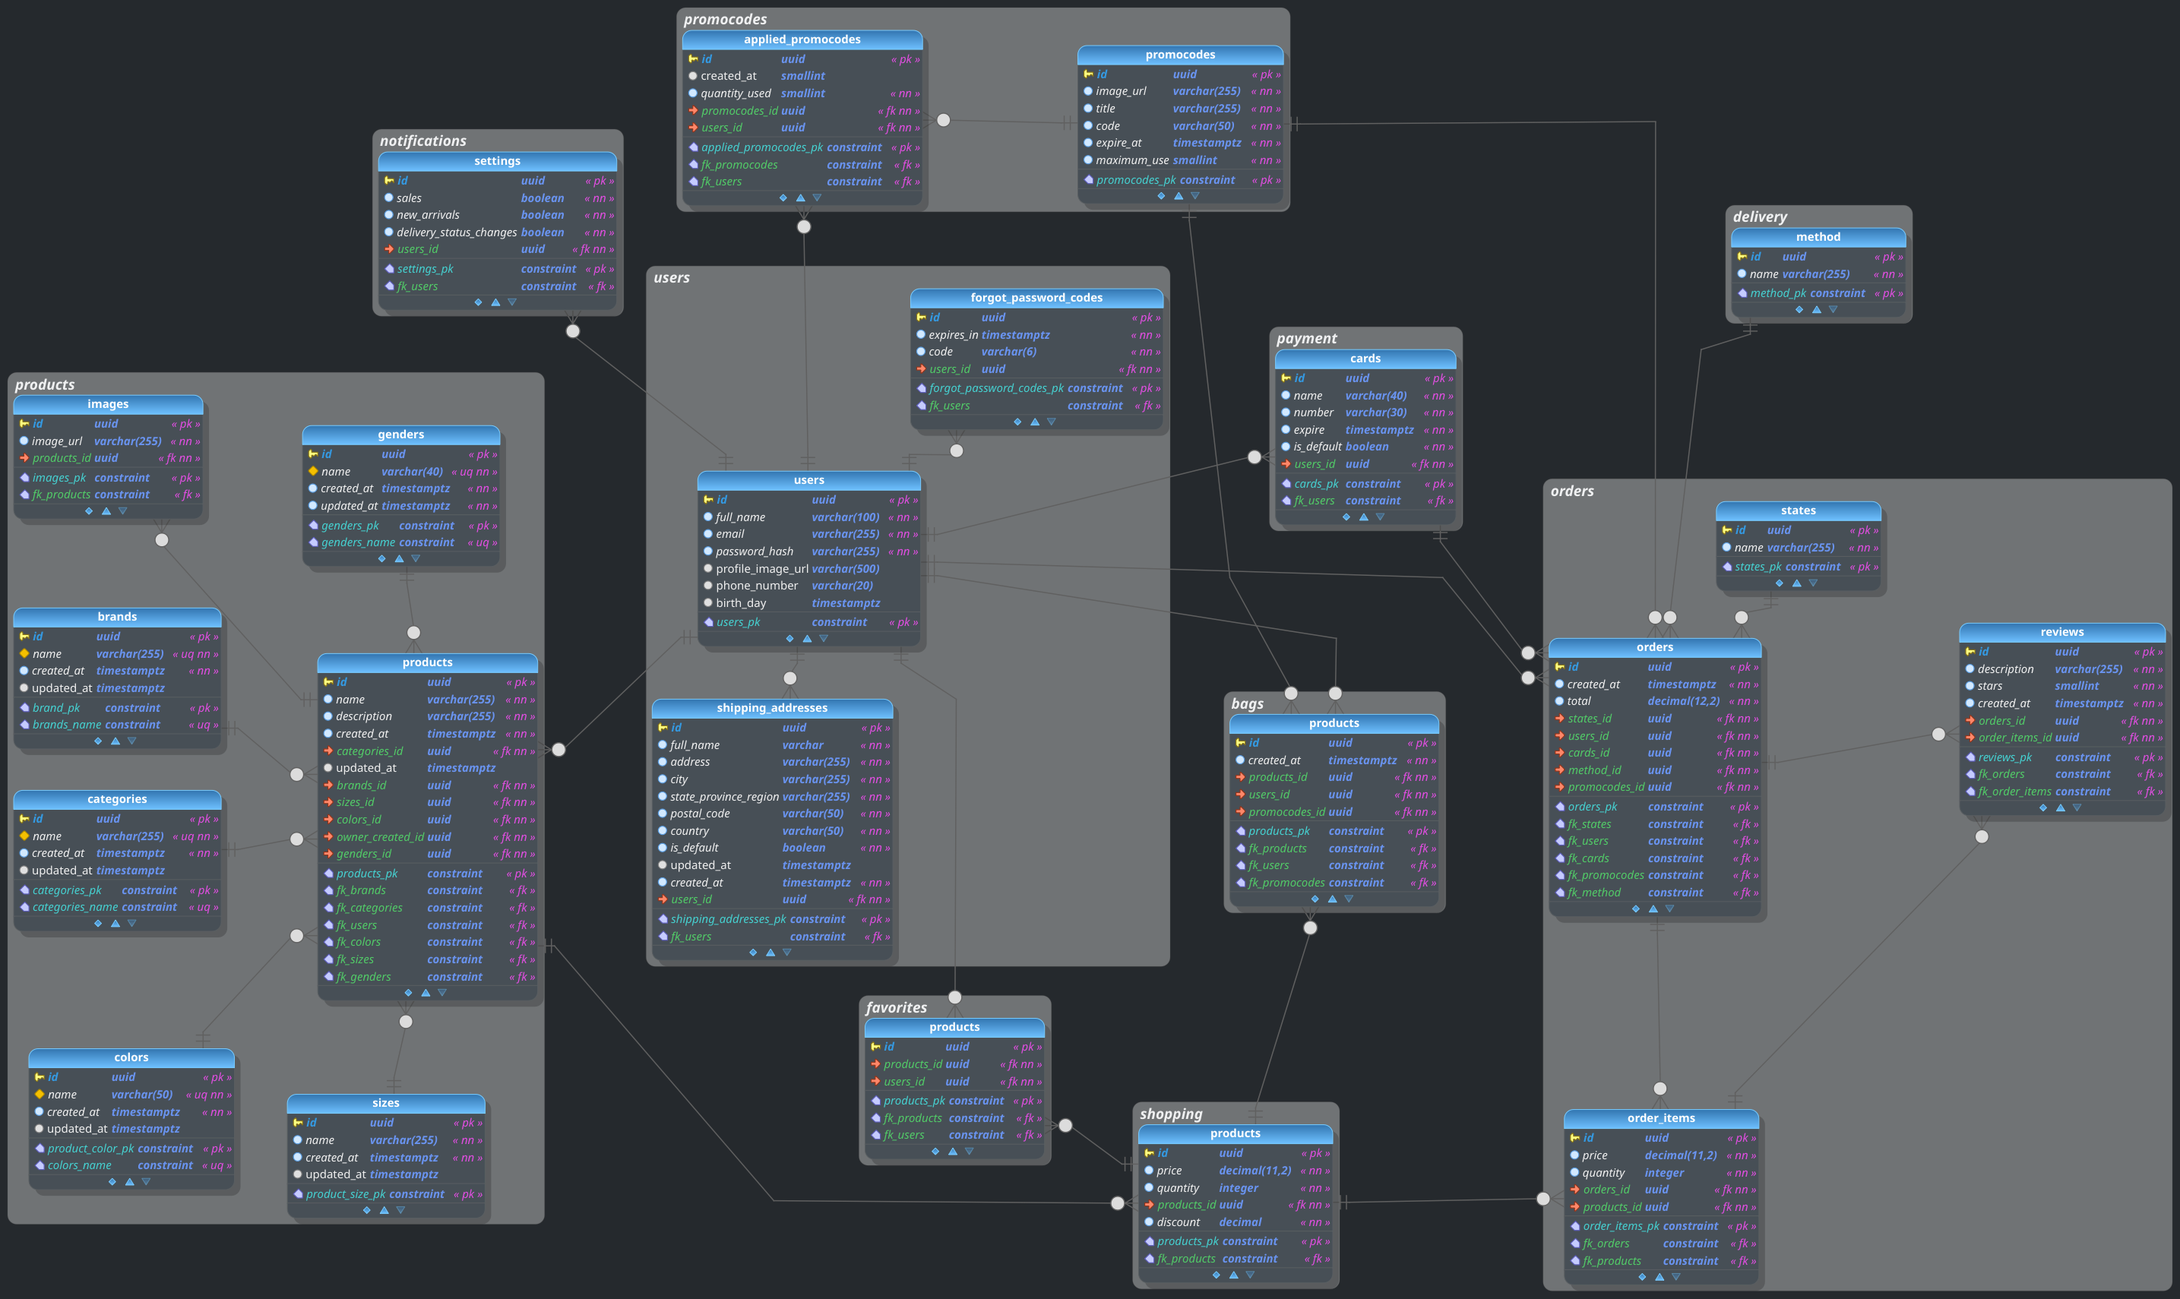
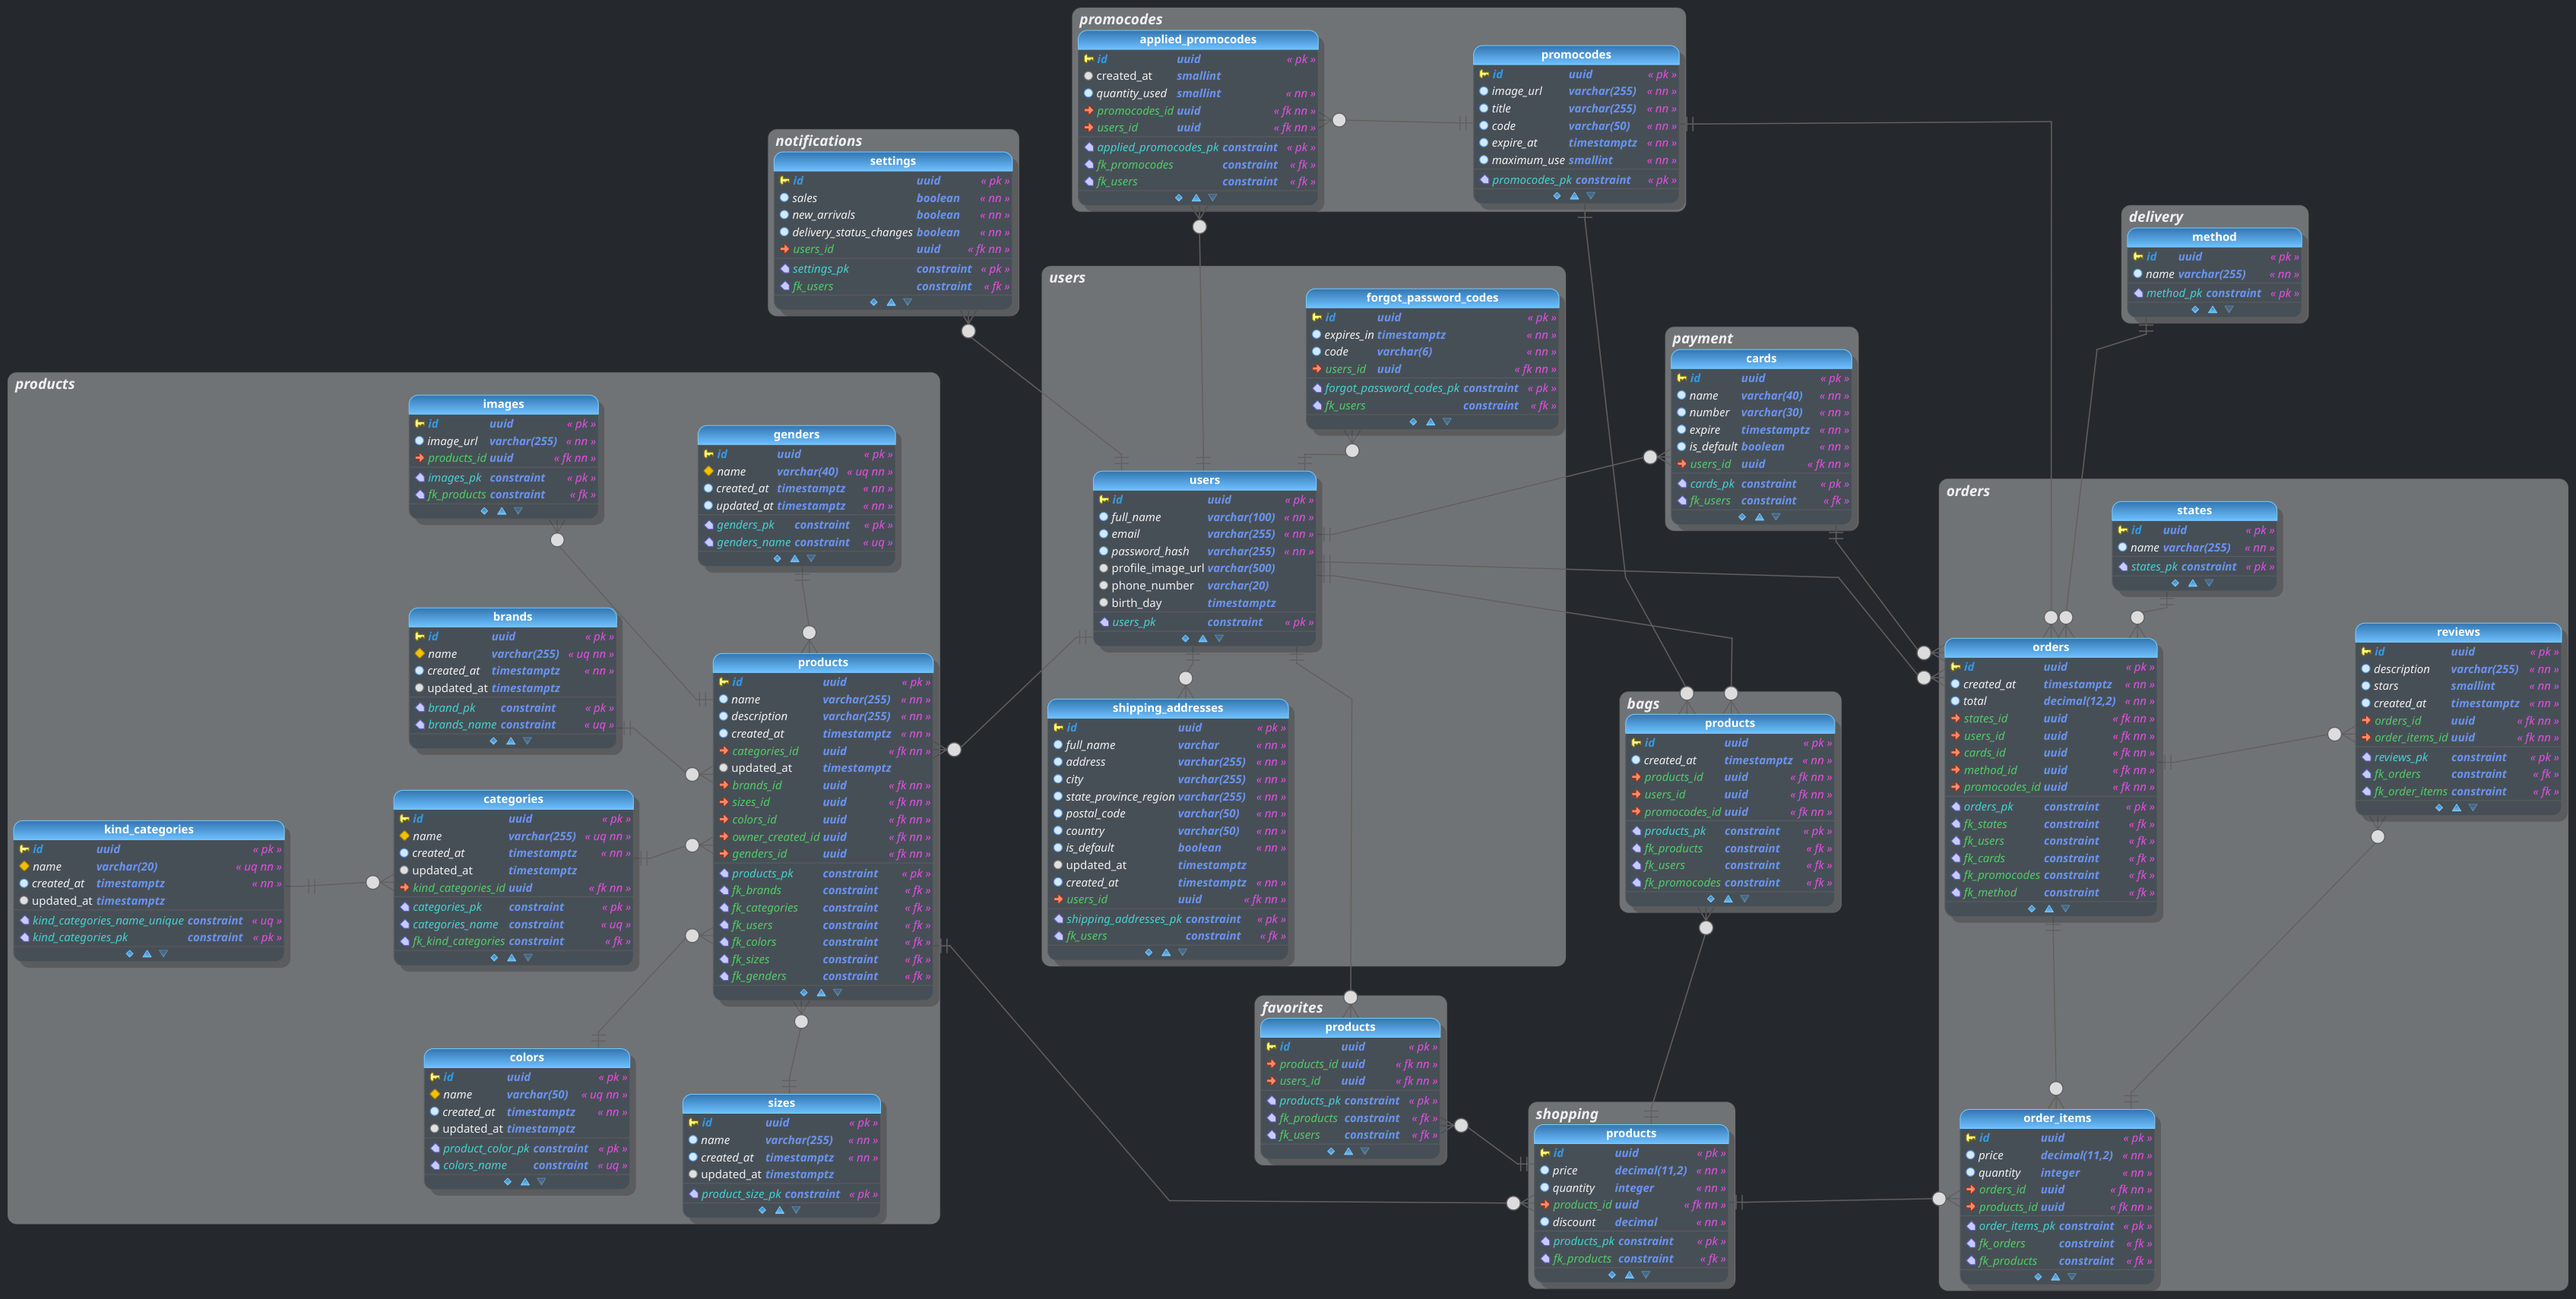
add kind category

diff --git a/backend/internal/core/product/models/kind_category_test.go b/backend/internal/core/product/models/kind_category_test.go
@@ -1,0 +1,47 @@
+package models_test
+
+import (
+	"ecommerce/internal/core/product/models"
+	"testing"
+	"time"
+)
+
+func TestInvalidKindCategory(t *testing.T) {
+	testCases := []UseCaseTest[models.KindCategory]{}
+
+	testCases = append(testCases, makeUseCaseKindCategory("1", "", models.ErrKindCategoryNameIsEmpty))
+	testCases = append(testCases, makeUseCaseKindCategory("2", "a", models.ErrKindCategoryNameMustHaveOneCharacter))
+	testCases = append(testCases, makeUseCaseKindCategory("3", makeAnyLongString(51), models.ErrKindCategoryNameNameIsLong))
+
+	for _, testCase := range testCases {
+		received := testCase.data.Validate()
+		verifyTest(t, received, testCase.expected)
+	}
+}
+
+func TestValidKindCategory(t *testing.T) {
+	testCases := []UseCaseTest[models.KindCategory]{}
+
+	testCases = append(testCases, makeUseCaseKindCategory("1", "aa", nil))
+	testCases = append(testCases, makeUseCaseKindCategory("2", makeAnyLongString(20), nil))
+
+	for _, testCase := range testCases {
+		received := testCase.data.Validate()
+		verifyTest(t, received, testCase.expected)
+	}
+}
+
+func makeUseCaseKindCategory(id, name string, expected error) UseCaseTest[models.KindCategory] {
+	return UseCaseTest[models.KindCategory]{
+		data:     makeKindCategory(id, name),
+		expected: expected,
+	}
+}
+
+func makeKindCategory(id, name string) models.KindCategory {
+	return models.KindCategory{
+		ID:        id,
+		Name:      name,
+		CreatedAt: time.Now(),
+	}
+}

diff --git a/backend/internal/core/product/models/kind_category.go b/backend/internal/core/product/models/kind_category.go
@@ -1,0 +1,32 @@
+package models
+
+import (
+	"errors"
+	"time"
+)
+
+var (
+	ErrKindCategoryNameIsEmpty              = errors.New("name of the kind of the category is empty")
+	ErrKindCategoryNameMustHaveOneCharacter = errors.New("name of the kind of the category must have at least one character")
+	ErrKindCategoryNameNameIsLong           = errors.New("name of the kind of the category is too long")
+)
+
+type KindCategory struct {
+	ID        string
+	Name      string
+	CreatedAt time.Time
+	UpdatedAt time.Time
+}
+
+func (c *KindCategory) Validate() error {
+	if len(c.Name) == 0 {
+		return ErrKindCategoryNameIsEmpty
+	}
+	if len(c.Name) < 2 {
+		return ErrKindCategoryNameMustHaveOneCharacter
+	}
+	if len(c.Name) > 20 {
+		return ErrKindCategoryNameNameIsLong
+	}
+	return nil
+}
